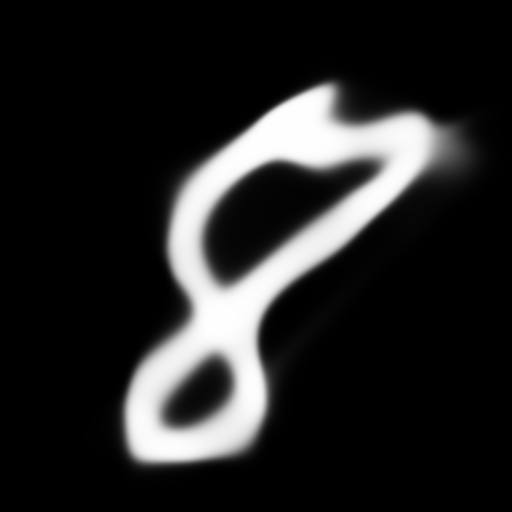
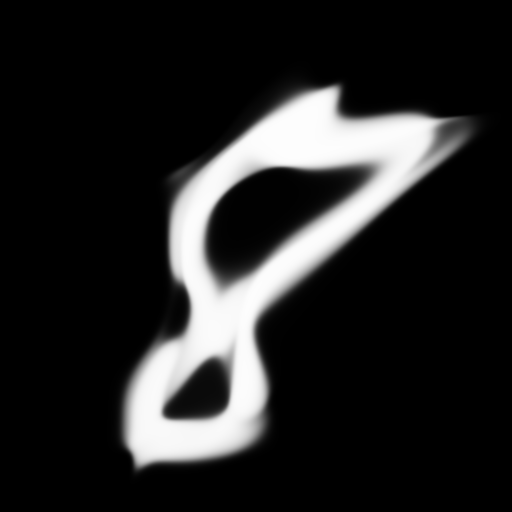
[UI] rate scroll, time corr calculation, duration,

diff --git a/upscale_img.cpp b/upscale_img.cpp
@@ -41,7 +41,7 @@ typedef struct {
 	size_t capacity;
 } Plot;
 
-size_t arch[] = { 3, 14, 14, 1 };
+size_t arch[] = { 3, 11, 11, 11, 11, 11, 1 };
 
 void nn_render_raylib(NN nn, int rx, int ry, int rw, int rh)
 {
@@ -178,16 +178,16 @@ int main(int argc, char** argv)
 	const char* program = args_shift(&argc, &argv);
 
 	if (argc <= 0) {
-		fprintf(stderr, "USAGE: %s <image1> <image2>\n", program);
-		fprintf(stderr, "ERROR: no image1 file is provided\n");
+		fprintf(stderr, "[USAGE] %s <image1> <image2>\n", program);
+		fprintf(stderr, "[ERROR] no image1 file is provided\n");
 
 		return 1;
 	}
 	const char* img1_file_path = args_shift(&argc, &argv);
 
 	if (argc <= 0) {
-		fprintf(stderr, "USAGE: %s <image1> <image2>\n", program);
-		fprintf(stderr, "ERROR: no image2 file is provided\n");
+		fprintf(stderr, "[USAGE] %s <image1> <image2>\n", program);
+		fprintf(stderr, "[ERROR] no image2 file is provided\n");
 
 		return 1;
 	}
@@ -196,31 +196,30 @@ int main(int argc, char** argv)
 	int img1_width, img1_height, img1_comp;
 	uint8_t *img1_pixels= (uint8_t*)stbi_load(img1_file_path, &img1_width, &img1_height, &img1_comp, 0);
 	if (img1_pixels == NULL) {
-		fprintf(stderr, "ERROR: could not read image %s\n", img1_file_path);
+		fprintf(stderr, "[ERROR] could not read image %s\n", img1_file_path);
 		return 1;
 	}
 	if (img1_comp != 1) {
-		fprintf(stderr, "ERROR: %s is %d bits image. Only 8 bit grayscale images are supported\n", img1_file_path, img1_comp * 8);
+		fprintf(stderr, "[ERROR] %s is %d bits image. Only 8 bit grayscale images are supported\n", img1_file_path, img1_comp * 8);
 		
 		return 1;
 	}
 
-	printf("%s size %dX%d %d bits\n", img1_file_path, img1_width, img1_height, img1_comp * 8);
+	printf("[INFO] %s size %dX%d %d bits\n", img1_file_path, img1_width, img1_height, img1_comp * 8);
 
 	int img2_width, img2_height, img2_comp;
 	uint8_t *img2_pixels= (uint8_t*)stbi_load(img2_file_path, &img2_width, &img2_height, &img2_comp, 0);
 	if (img2_pixels == NULL) {
-		fprintf(stderr, "ERROR: could not read image %s\n", img2_file_path);
+		fprintf(stderr, "[ERROR] could not read image %s\n", img2_file_path);
 		return 1;
 	}
 	if (img2_comp != 1) {
-		fprintf(stderr, "ERROR: %s is %d bits image. Only 8 bit grayscale images are supported\n", img1_file_path, img2_comp * 8);
+		fprintf(stderr, "[ERROR] %s is %d bits image. Only 8 bit grayscale images are supported\n", img1_file_path, img2_comp * 8);
 		
 		return 1;
 	}
 
-	printf("%s size %dX%d %d bits\n", img2_file_path, img2_width, img2_height, img2_comp*8);
-
+	printf("[INFO] %s size %dX%d %d bits\n", img2_file_path, img2_width, img2_height, img2_comp*8);
 
 	NN nn = nn_alloc(arch, ARRAY_LEN(arch));
 	NN g = nn_alloc(arch, ARRAY_LEN(arch));
@@ -251,10 +250,13 @@ int main(int argc, char** argv)
 	nn_rand(nn, -1.f, 1.f);
 
 	clock_t start, end;
-	float t_speed, est_time = 0;
+	clock_t real_ts, real_te;
+	float t_speed, time_left = 0.0f;
+	float duration = 0.0f, time_corr = 0.0f;
+	float est_time = 0.0f;
 
-	float rate = 1.0f;
-	size_t max_epoch = 1e4;
+	float max_rate = 1.0f;
+	size_t max_epoch = 5e3;
 	size_t epoch = 0;
 
 	size_t batch_size = 28;
@@ -297,22 +299,63 @@ int main(int argc, char** argv)
 	Texture2D preview_texture = LoadTextureFromImage(preview_image);
 
 	bool paused = false;
-	bool scroll_dragging = false;
-	float scroll = 0.0f;
+	bool interpolate_dragging = false;
+	bool rate_dragging = false;
+	float interpolate = 0.0f;
+	float rate = max_rate;
 
+	real_ts = clock();
 	while (!WindowShouldClose()) {
+		// action keys
 		if (IsKeyPressed(KEY_SPACE)) {
 			paused = !paused;
+
+			printf("[INFO] Paused -> %s", paused ? "True" : "False");
 		}
 
 		if (IsKeyPressed(KEY_R)) {
 			epoch = 0;
 			nn_rand(nn, -1.f, 1.f);
 			cost_plot.count = 0;
+			real_ts = clock();
+			est_time = 0.0f;
+
+			printf("[INFO] Restarted");
 		}
 
 		if (IsKeyPressed(KEY_I)) {
 			max_epoch += max_epoch / 4;
+			est_time = 0.0f;
+
+			printf("[INFO] Max Epoch Increased -> %zu", max_epoch);
+		}
+
+		// generating upscaled output img
+		if (IsKeyPressed(KEY_S)) {
+			size_t out_width = 512;
+			size_t out_height = 512;
+			uint8_t* out_pixels = (uint8_t*)malloc(sizeof(*out_pixels) * out_width * out_height);
+			assert(out_pixels != NULL);
+
+			for (size_t y = 0; y < out_height; ++y) {
+				for (size_t x = 0; x < out_width; ++x) {
+					MAT_AT(NN_INPUT(nn), 0, 0) = (float)x / (out_width - 1);
+					MAT_AT(NN_INPUT(nn), 0, 1) = (float)y / (out_height - 1);
+					MAT_AT(NN_INPUT(nn), 0, 2) = interpolate;
+					nn_forward(nn);
+					uint8_t pixel = MAT_AT(NN_OUTPUT(nn), 0, 0) * 255.f;
+					out_pixels[y * out_width + x] = pixel;
+				}
+			}
+
+			char out_file_path[256] = "output/upscaled.png";
+
+			if (!stbi_write_png(out_file_path, out_width, out_height, 1, out_pixels, out_width * sizeof(*out_pixels))) {
+				fprintf(stderr, "[ERROR] could not save image %s\n", out_file_path);
+				return 1;
+			}
+
+			printf("[INFO] Generated %s from %s,%s\n", out_file_path, img1_file_path, img2_file_path);
 		}
 
 		if (!paused) {
@@ -369,10 +412,9 @@ int main(int argc, char** argv)
 			ry = h / 2 - rh / 2;
 			plot_raylib(cost_plot, rx, ry, rw, rh);
 			DrawText("Cost Plot", rx + 25 + rw * 0.5f, ry, rh * 0.03, WHITE);
-			DrawText("Epoch -->", rx + 25 + rw * 0.5f, ry + 50 + rh + rh * 0.03, rh * 0.03, WHITE);
 
 			// instructions render
-			DrawText("Pause -> [SPACE]\t\t\t\t\tReload -> [R]\t\t\t\t\tIncrease Epoch -> [I]", rx + 25, h - 2 * h * 0.02, h * 0.02, WHITE);
+			DrawText("Pause -> [SPACE]\t\t\t\t\tReload -> [R]\t\t\t\t\tIncrease Epoch -> [I]\t\t\t\t\Snapshot Ouput -> [S]", rx + 25, h - 2 * h * 0.02, h * 0.02, WHITE);
 
 			// nn render
 			rx += rw;
@@ -404,7 +446,7 @@ int main(int argc, char** argv)
 				for (size_t x = 0; x < (size_t)prev_height; ++x) {
 					MAT_AT(NN_INPUT(nn), 0, 0) = (float)x / (prev_width - 1);
 					MAT_AT(NN_INPUT(nn), 0, 1) = (float)y / (prev_height - 1);
-					MAT_AT(NN_INPUT(nn), 0, 2) = scroll;
+					MAT_AT(NN_INPUT(nn), 0, 2) = interpolate;
 					nn_forward(nn);
 					uint8_t pixel = MAT_AT(NN_OUTPUT(nn), 0, 0) * 255.f;
 					ImageDrawPixel(&preview_image, x, y, CLITERAL(Color){pixel, pixel, pixel, 255});
@@ -432,103 +474,93 @@ int main(int argc, char** argv)
 			DrawTextureEx(preview_texture, CLITERAL(Vector2) {(float)rx, (float)(ry + prev_height * 2 * scale / factor + h * 0.02)}, 0, scale / factor, WHITE);
 
 			// slider
-			Vector2 position = { (float)rx, (float)(ry + prev_height * 3 * scale / factor + h * 0.04) };
-			Vector2 size = { prev_width * scale / factor, rh * 0.004f };
-			float knob_radius = rh * 0.01;
-			Vector2 knob_position = { rx + size.x * scroll, position.y + size.y * 0.5f };
+			{
+				// interpolate slider
+				float knob_radius = rh * 0.01;
+				Vector2 size = { prev_width * scale / factor, rh * 0.004f };
+				Vector2 interpolate_pos = { (float)rx, (float)(ry + prev_height * 3 * scale / factor + h * 0.04) };
+				Vector2 interpolate_knob = { interpolate_pos.x + size.x * interpolate, interpolate_pos.y + size.y * 0.5f };
+				
+				Vector2 rate_pos = { (float)h * 0.06, (float)h * 0.06};
+				Vector2 rate_knob = { rate_pos.x + size.x * rate, rate_pos.y + size.y * 0.5f };
 			
-			DrawRectangleV(position, size, WHITE);
-			DrawCircleV(knob_position , knob_radius, RED);
-			snprintf(buffer, sizeof(buffer), "%.2f", scroll);
-			DrawText(buffer, rx + size.x * scroll, position.y + size.y + h * 0.01f, h * 0.005f, WHITE);
+				DrawRectangleV(interpolate_pos, size, WHITE);
+				DrawCircleV(interpolate_knob , knob_radius, RED);
+				snprintf(buffer, sizeof(buffer), "%.2f", interpolate);
+				DrawText(buffer, interpolate_pos.x + size.x * interpolate, interpolate_pos.y + size.y + h * 0.01f, h * 0.005f, WHITE);
 
-			if (scroll_dragging) {
-				float x = GetMousePosition().x;
+				DrawText("Rate", 0.0f, (float)h * 0.05, h * 0.02f, WHITE);
+				DrawRectangleV(rate_pos, size, WHITE);
+				DrawCircleV(rate_knob , knob_radius, RED);
+				snprintf(buffer, sizeof(buffer), "%.2f", rate);
+				DrawText(buffer, rate_pos.x + size.x * rate, rate_pos.y + size.y + h * 0.01f, h * 0.005f, WHITE);
 
-				if (x < position.x) x = position.x;
-				if (x > position.x + size.x) x = position.x + size.x;
-				scroll = (x - position.x) / size.x;
-			}
+				if (interpolate_dragging) {
+					float x = GetMousePosition().x;
 
-			if (IsMouseButtonPressed(MOUSE_BUTTON_LEFT)) {
-				Vector2 mouse_position = GetMousePosition();
-				if (Vector2Distance(mouse_position, knob_position) <= knob_radius) {
-					scroll_dragging = true;
-					printf("[DRAG] True\n");
+					if (x < interpolate_pos.x) x = interpolate_pos.x;
+					if (x > interpolate_pos.x + size.x) x = interpolate_pos.x + size.x;
+					interpolate = (x - interpolate_pos.x) / size.x;
+				}
+
+				if (rate_dragging) {
+					float x = GetMousePosition().x;
+
+					if (x < rate_pos.x) x = rate_pos.x;
+					if (x > rate_pos.x + size.x) x = rate_pos.x + size.x;
+					rate = (x - rate_pos.x) / size.x;
+				}
+
+				if (IsMouseButtonPressed(MOUSE_BUTTON_LEFT)) {
+					Vector2 mouse = GetMousePosition();
+					if (Vector2Distance(mouse, interpolate_knob) <= knob_radius) {
+						interpolate_dragging = true;
+						printf("[DRAG] Interpolate ->True\n");
+					}
+					if (Vector2Distance(mouse, rate_knob) <= knob_radius) {
+						rate_dragging = true;
+						printf("[DRAG] Rate -> True\n");
+					}
+				}
+
+				if (IsMouseButtonReleased(MOUSE_BUTTON_LEFT)) {
+					interpolate_dragging = false;
+					rate_dragging = false;
+					printf("[DRAG] False\n");
 				}
 			}
-
-			if (IsMouseButtonReleased(MOUSE_BUTTON_LEFT)) {
-				scroll_dragging = false;
-				printf("[DRAG] False\n");
-			}
 			
-			// info render
+			// remaining time calculation
 			if (!paused) {
 				end = clock();
 				t_speed = (((float)end - (float)start) * batch_count/ (batches_per_frame * CLOCKS_PER_SEC));
-				est_time = (max_epoch - epoch) * t_speed;
-				da_append(&time_plot, est_time, float);
+				time_left = (max_epoch - epoch) * t_speed;
+				da_append(&time_plot, time_left, float);
 			}
 
+			if (est_time == 0.0f) {
+				est_time = time_left;
+			}
+
+			// time plot
 			rx += prev_width * scale / factor;
 			ry += prev_height * 2 * scale / factor;
 			plot_raylib(time_plot, rx, ry, prev_width * scale / factor, prev_height * scale / factor);
 			DrawText("Time Plot", rx + 25 + prev_width * 0.5f * scale / factor, ry + prev_height * scale / factor * 0.03, prev_height * scale / factor * 0.05, WHITE);
-			DrawText("Epoch -->", rx + 25 + prev_width * 0.5f * scale / factor, ry + 50 + prev_height * scale / factor + prev_height * scale / factor * 0.03, prev_height * scale / factor * 0.03, WHITE);
 
-			snprintf(buffer, sizeof(buffer), "Epoch: %zu/%zu, Rate: %f, Est. Time: %f sec", epoch, max_epoch, rate, est_time);
-			DrawText(buffer, 0, 0, h * 0.04, WHITE);
+			// duration and time correction
+			if (epoch < max_epoch) {
+				real_te = clock();
+				duration = ((float)real_te - (float)real_ts) / CLOCKS_PER_SEC;
+				time_corr = est_time - (duration + time_left);
+			}
+
+			// info render
+			snprintf(buffer, sizeof(buffer), "Epoch: %zu/%zu, Rate: %.4f, Time Left: %.2f sec, Est. Time: %.2f%c%.2f sec, Duration: %.2f sec", epoch, max_epoch, rate, time_left, est_time, time_corr < 0 ? '+' : '-', time_corr, duration);
+			DrawText(buffer, 0, 0, h * 0.03, WHITE);
 		}
 		EndDrawing();
 	}
-	
-	// stdout
-	for (size_t y = 0; y < (size_t)img1_height; ++y) {
-		for (size_t x = 0; x < (size_t)img1_width; ++x) {
-			uint8_t pixel = img1_pixels[y*img1_width + x];
-			if (pixel) printf("%3u ", pixel); else printf("    ");
-		}
-		printf("\n");
-	}
-
-	for (size_t y = 0; y < (size_t)img1_height; ++y) {
-		for (size_t x = 0; x < (size_t)img1_width; ++x) {
-			MAT_AT(NN_INPUT(nn), 0, 0) = (float)x / (img1_width - 1);
-			MAT_AT(NN_INPUT(nn), 0, 1) = (float)y / (img1_height - 1);
-			MAT_AT(NN_INPUT(nn), 0, 2) = scroll;
-			nn_forward(nn);
-			uint8_t pixel = MAT_AT(NN_OUTPUT(nn), 0, 0) * 255.f;
-			if (pixel) printf("%3u ", pixel); else printf("    ");
-		}
-		printf("\n");
-	}
-
-	// generating upscaled output img
-	size_t out_width = 512;
-	size_t out_height = 512;
-	uint8_t* out_pixels = (uint8_t*)malloc(sizeof(*out_pixels) * out_width * out_height);
-	assert(out_pixels != NULL);
-
-	for (size_t y = 0; y < out_height; ++y) {
-		for (size_t x = 0; x < out_width; ++x) {
-			MAT_AT(NN_INPUT(nn), 0, 0) = (float)x / (out_width - 1);
-			MAT_AT(NN_INPUT(nn), 0, 1) = (float)y / (out_height - 1);
-			MAT_AT(NN_INPUT(nn), 0, 2) = scroll;
-			nn_forward(nn);
-			uint8_t pixel = MAT_AT(NN_OUTPUT(nn), 0, 0) * 255.f;
-			out_pixels[y * out_width + x] = pixel;
-		}
-	}
-
-	char out_file_path[256] = "output/upscaled.png";
-
-	if (!stbi_write_png(out_file_path, out_width, out_height, 1, out_pixels, out_width * sizeof(*out_pixels))) {
-		fprintf(stderr, "ERROR: could not save image %s\n", out_file_path);
-		return 1;
-	}
-
-	printf("INFO: Generated %s from %s,%s", out_file_path, img1_file_path, img2_file_path);
 
 	return 0;
 }
